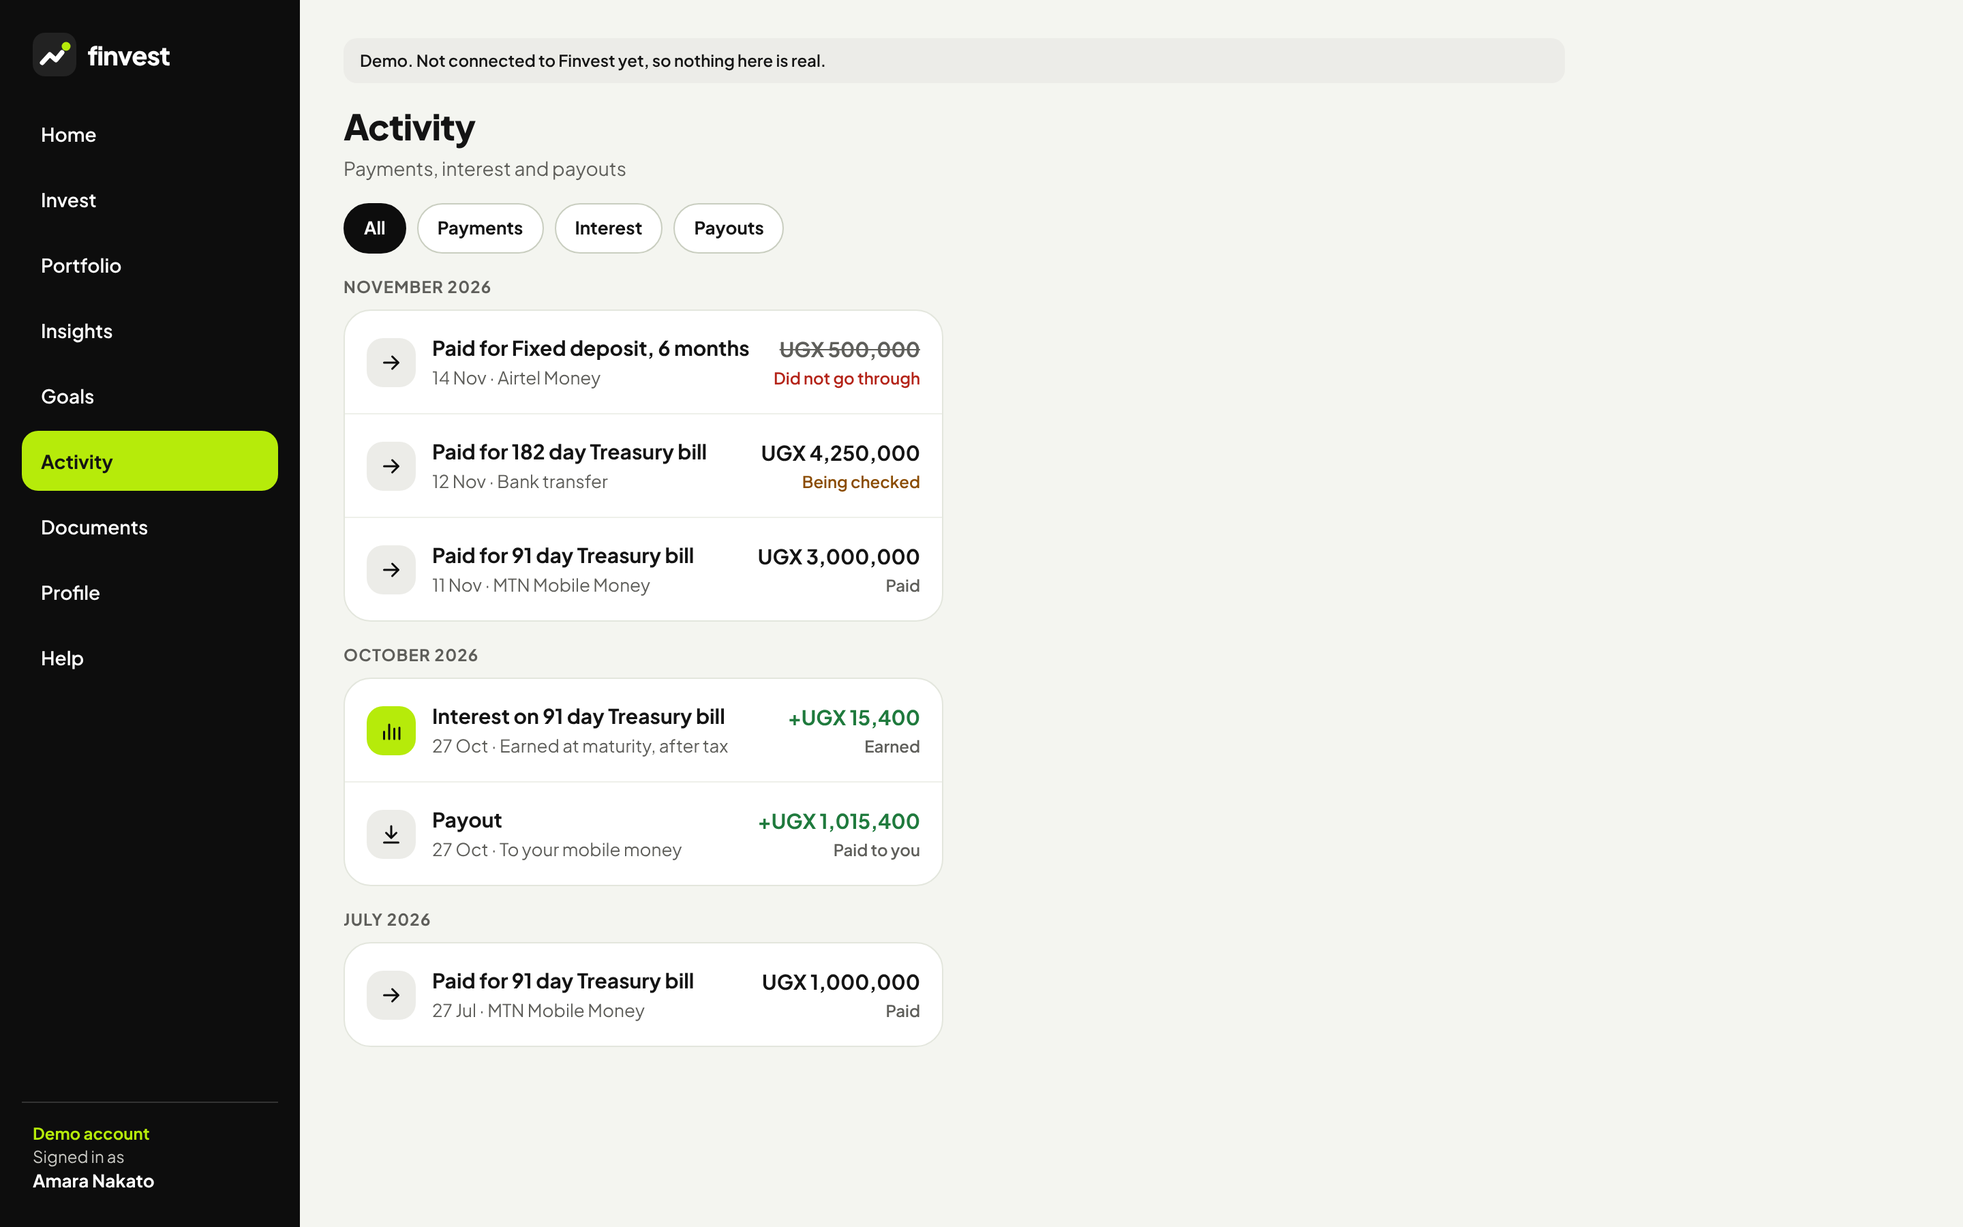
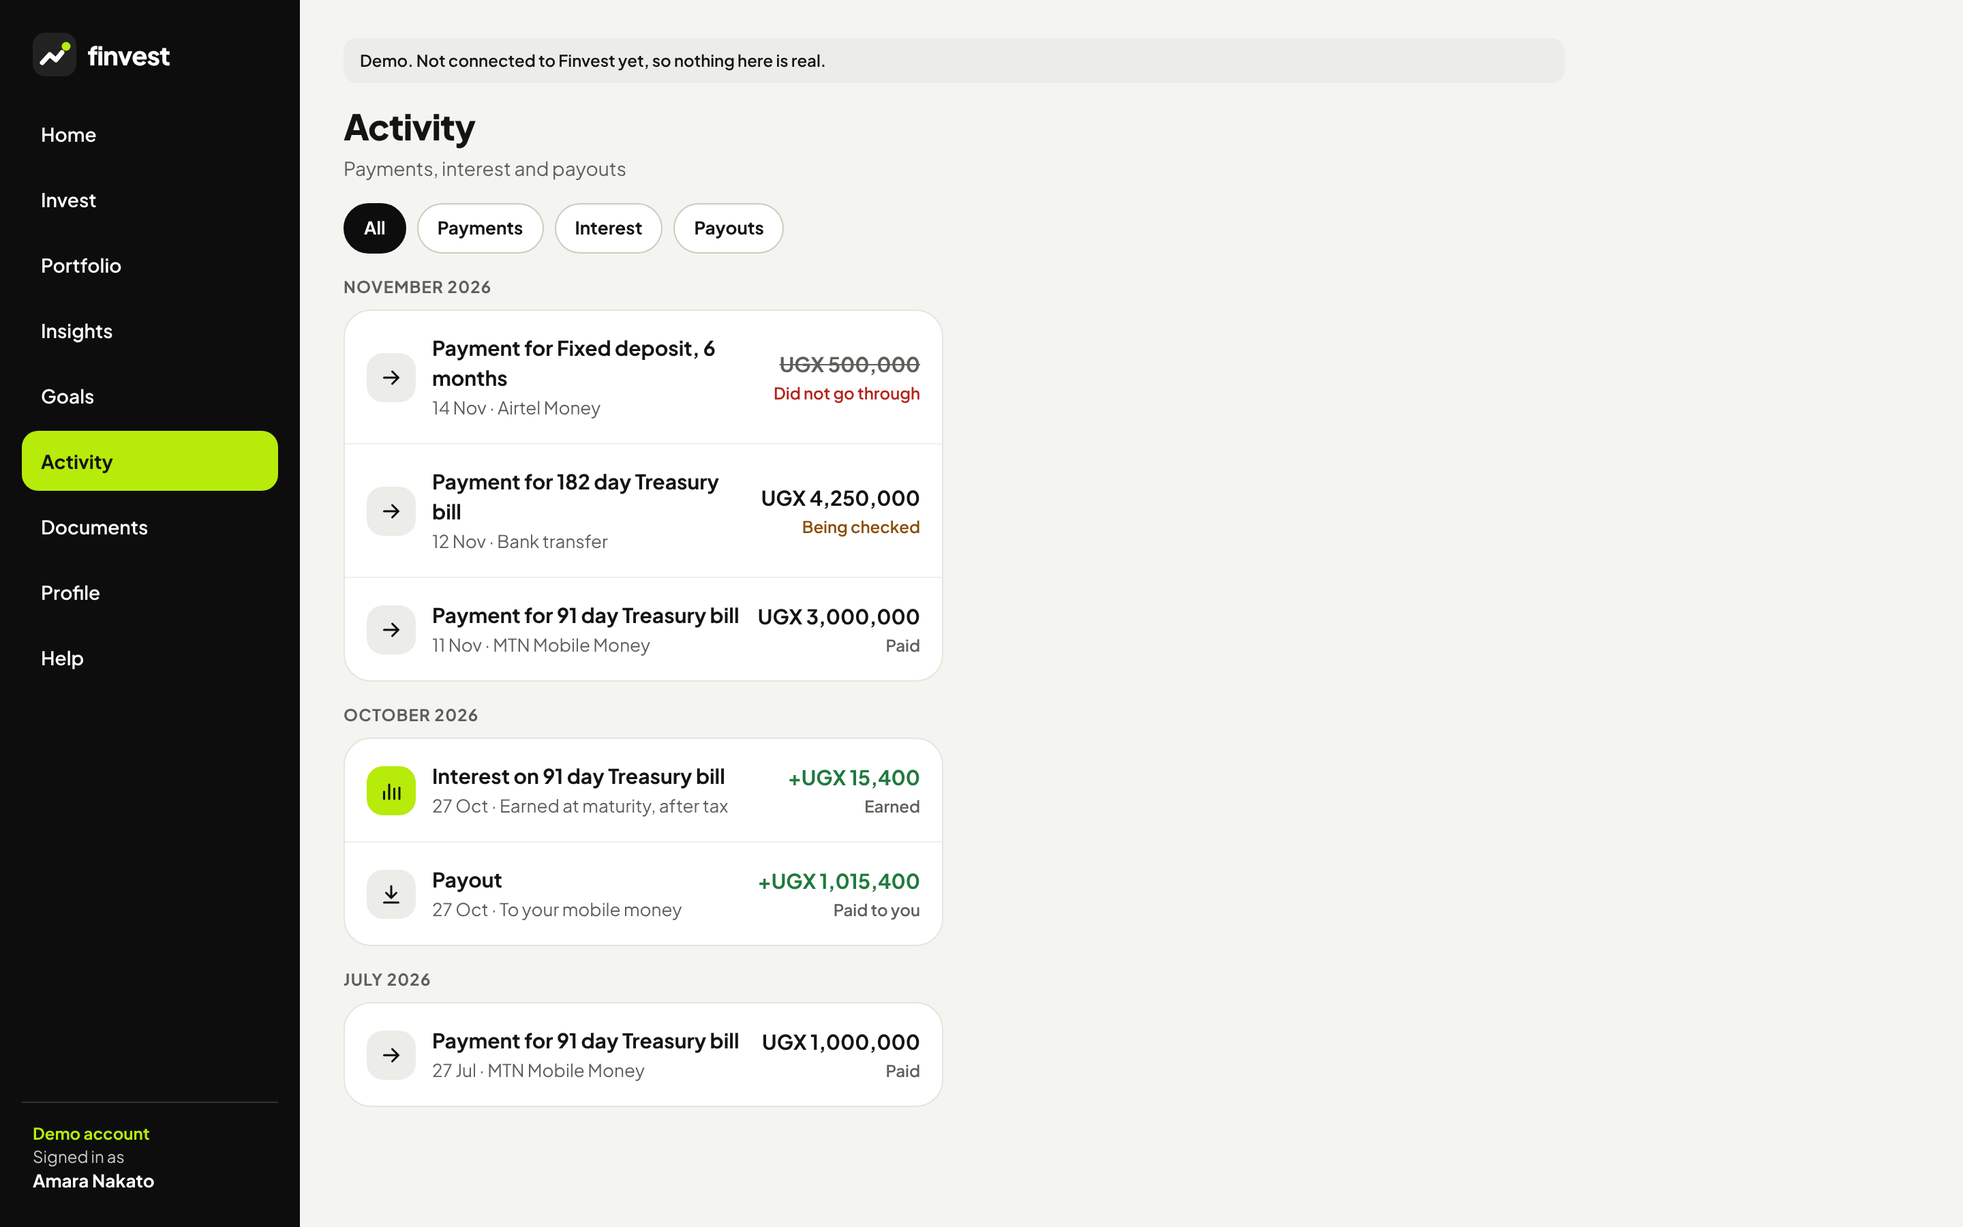
Say where a cut Activity list starts, and fix two reviewer notes
A payment row is titled "Payment for …", which is true while it is
being checked or after it failed. A client with more payments than the
four pages the app reads used to see older interest and payouts beside
missing older payments; the list now stops at the oldest payment read
and says at its foot where it starts. A signed-in client who opens a
spent email link again, as "Try again" does when the first answer was
lost, is told the address is proved when the session says it is.

Changed region(s): [[0.1875, 0.28, 0.4688, 0.7467], [0.1875, 0.7467, 0.4688, 0.8711], [0.375, 0.56, 0.4688, 0.7467]]

diff --git a/apps/client/src/activity/__tests__/apiActivityClient.test.ts b/apps/client/src/activity/__tests__/apiActivityClient.test.ts
@@ -46,9 +46,52 @@ describe("Activity from the API", () => {
               : null;
       return new Response(JSON.stringify(body), { status: body === null ? 404 : 200 });
     });
-    const items = await createApiActivityClient().list();
+    const { items, since } = await createApiActivityClient().list();
     expect(items.map((item) => item.amount.minor)).toEqual([3000, 2000, 1000]);
+    expect(since).toBeNull();
     expect(seen).toEqual(["/client/payments", `/client/payments?before=${id(2)}`, "/client/investments", "/client/payouts"]);
+  });
+
+  it("stops after four pages and keeps only what is newer than the oldest payment read", async () => {
+    const seen: string[] = [];
+    setFetch(async (url) => {
+      const path = String(url).replace(API_URL, "");
+      seen.push(path);
+      const page = seen.filter((p) => p.startsWith("/client/payments")).length;
+      const body = path.startsWith("/client/payments")
+        ? { items: [payment(10 - page * 2), payment(9 - page * 2)].map((item, i) => ({ ...item, id: id(page * 2 + i) })), next_before: id(page * 2 + 1) }
+        : path === "/client/payouts"
+          ? [
+              { id: id(70), amount: { minor: 5, currency: "UGX" }, kind: "mobile_money", status: "paid", business_date: "2026-11-01", destination_id: id(80), created_at: "2026-11-01T09:00:00Z" },
+              { id: id(71), amount: { minor: 7, currency: "UGX" }, kind: "mobile_money", status: "paid", business_date: "2026-11-01", destination_id: id(80), created_at: "2026-11-06T09:00:00Z" },
+            ]
+          : [];
+      return new Response(JSON.stringify(body), { status: 200 });
+    });
+    const { items, since } = await createApiActivityClient().list();
+    expect(seen.filter((p) => p.startsWith("/client/payments"))).toHaveLength(4);
+    // Pages hold days 8 and 7, 6 and 5, 4 and 3, 2 and 1: the oldest read is day 1.
+    expect(since).toBe("2026-11-01T08:00:00Z");
+    expect(items.filter((item) => item.kind === "payout").map((item) => item.amount.minor)).toEqual([7, 5]);
+  });
+
+  it("drops older rows of every kind when the payments are cut short", async () => {
+    let calls = 0;
+    setFetch(async (url) => {
+      const path = String(url).replace(API_URL, "");
+      if (path.startsWith("/client/payments")) {
+        calls += 1;
+        return new Response(JSON.stringify({ items: [payment(5)].map((item) => ({ ...item, id: id(calls) })), next_before: id(calls) }), { status: 200 });
+      }
+      const body =
+        path === "/client/payouts"
+          ? [{ id: id(70), amount: { minor: 5, currency: "UGX" }, kind: "mobile_money", status: "paid", business_date: "2026-11-01", destination_id: id(80), created_at: "2026-11-02T09:00:00Z" }]
+          : [];
+      return new Response(JSON.stringify(body), { status: 200 });
+    });
+    const { items, since } = await createApiActivityClient().list();
+    expect(since).toBe("2026-11-05T08:00:00Z");
+    expect(items.some((item) => item.kind === "payout")).toBe(false);
   });
 
   it("fails as a whole when any part cannot be read", async () => {

diff --git a/apps/client/src/activity/__tests__/build.test.ts b/apps/client/src/activity/__tests__/build.test.ts
@@ -1,4 +1,5 @@
-import { buildActivity, byMonth, InvestmentRow, monthHeading, PaymentRow, PayoutRow, shortDay } from "../build";
+import { buildActivity, byMonth, from, InvestmentRow, longDay, monthHeading, PaymentRow, PayoutRow, shortDay } from "../build";
+import { ActivityItem } from "../types";
 
 const ugx = (minor: number) => ({ currency: "UGX" as const, minor });
 
@@ -35,9 +36,9 @@ const payout = (over: Partial<PayoutRow> = {}): PayoutRow => ({
 describe("the Activity list", () => {
   it("names the investment a payment was for, and falls back when it is not known", () => {
     const [known] = buildActivity([payment()], [investment()], []);
-    expect(known).toMatchObject({ kind: "payment", title: "Paid for 91 day Treasury bill", detail: "MTN Mobile Money", direction: "out", status: "done", statusLabel: "Paid", investmentId: "inv-1" });
+    expect(known).toMatchObject({ kind: "payment", title: "Payment for 91 day Treasury bill", detail: "MTN Mobile Money", direction: "out", status: "done", statusLabel: "Paid", investmentId: "inv-1" });
     const [unknown] = buildActivity([payment({ investment_id: "other" })], [], []);
-    expect(unknown?.title).toBe("Paid for an investment");
+    expect(unknown?.title).toBe("Payment for an investment");
   });
 
   it("dates a payment by when it was confirmed, else when it started", () => {
@@ -90,5 +91,18 @@ describe("the Activity list", () => {
       "November 2026",
       "October 2026",
     ]);
+  });
+});
+
+describe("a list cut short", () => {
+  it("keeps every kind of row from the start time on and nothing older", () => {
+    const at = (key: string, iso: string) => ({ key, at: iso }) as ActivityItem;
+    const items = [at("a", "2026-11-03T00:00:00Z"), at("b", "2026-11-02T00:00:00Z"), at("c", "2026-11-01T00:00:00Z")];
+    expect(from(items, "2026-11-02T00:00:00Z").map((item) => item.key)).toEqual(["a", "b"]);
+    expect(from(items, null)).toBe(items);
+  });
+
+  it("names the day it starts in full, Kampala time", () => {
+    expect(longDay("2026-10-31T22:00:00Z")).toBe("1 November 2026");
   });
 });

diff --git a/apps/client/src/app/(app)/activity.tsx b/apps/client/src/app/(app)/activity.tsx
@@ -2,7 +2,7 @@ import { useCallback, useState } from "react";
 import { Pressable, StyleSheet, View } from "react-native";
 import { useFocusEffect, useRouter } from "expo-router";
 
-import { byMonth, shortDay } from "@/activity/build";
+import { byMonth, longDay, shortDay } from "@/activity/build";
 import { useActivity } from "@/activity/ActivityProvider";
 import { ActivityItem, ActivityKind } from "@/activity/types";
 import { AppPage } from "@/components/AppPage";
@@ -14,7 +14,7 @@ import { formatMoney } from "@/payments/format";
 import { Loading } from "@/payments/Parts";
 import { colors, COLUMN_WIDTH, fontSizes, radii } from "@/theme";
 
-type State = { status: "loading" } | { status: "error" } | { status: "ready"; items: ActivityItem[] };
+type State = { status: "loading" } | { status: "error" } | { status: "ready"; items: ActivityItem[]; since: string | null };
 
 type Filter = "all" | ActivityKind;
 
@@ -46,7 +46,7 @@ export default function Activity() {
     useCallback(() => {
       let live = true;
       client.list().then(
-        (items) => live && setState({ status: "ready", items }),
+        ({ items, since }) => live && setState({ status: "ready", items, since }),
         () => live && setState({ status: "error" }),
       );
       return () => {
@@ -125,6 +125,11 @@ export default function Activity() {
                 </View>
               ))
             )}
+            {state.since ? (
+              <Txt size={fontSizes.sm} color={colors.muted} testID="activity-since">
+                {`This list goes back to ${longDay(state.since)}. For anything older, ask for a statement in Documents.`}
+              </Txt>
+            ) : null}
           </>
         ) : null}
       </View>

diff --git a/apps/client/src/activity/stubActivityClient.ts b/apps/client/src/activity/stubActivityClient.ts
@@ -1,4 +1,4 @@
-import { buildActivity, InvestmentRow, PaymentRow, PayoutRow } from "./build";
+import { buildActivity, from, InvestmentRow, PaymentRow, PayoutRow } from "./build";
 import { ActivityClient, ActivityError } from "./types";
 
 /**
@@ -7,10 +7,12 @@ import { ActivityClient, ActivityError } from "./types";
  *
  * The two demo accounts have a few weeks of history. An account made by
  * signing up has none, which shows the empty state. A number ending in 99
- * cannot reach the service.
+ * cannot reach the service. The second demo account stands for a client with
+ * more payments than the app reads, so its list starts 60 days back.
  */
 
 const SEEDED = new Set(["+256772123456", "+256701000200"]);
+const CUT_SHORT = "+256701000200";
 const DAY_MS = 24 * 60 * 60 * 1000;
 
 function ago(now: number, days: number, hours = 0): string {
@@ -49,8 +51,11 @@ export function createStubActivityClient(
     async list() {
       if (delayMs > 0) await new Promise((resolve) => setTimeout(resolve, delayMs));
       if (phone?.endsWith("99")) throw new ActivityError();
-      if (!phone || !SEEDED.has(phone)) return [];
-      return buildActivity(...history(now()));
+      if (!phone || !SEEDED.has(phone)) return { items: [], since: null };
+      const items = buildActivity(...history(now()));
+      if (phone !== CUT_SHORT) return { items, since: null };
+      const since = ago(now(), 60);
+      return { items: from(items, since), since };
     },
   };
 }

diff --git a/apps/client/src/activity/build.ts b/apps/client/src/activity/build.ts
@@ -58,7 +58,7 @@ export function buildActivity(
       key: `payment:${payment.id}`,
       kind: "payment",
       at: payment.confirmed_at ?? payment.created_at,
-      title: name ? `Paid for ${name}` : "Paid for an investment",
+      title: name ? `Payment for ${name}` : "Payment for an investment",
       detail: METHOD[payment.method],
       amount: payment.amount,
       direction: "out",
@@ -116,6 +116,22 @@ const KAMPALA_OFFSET_MS = 3 * 60 * 60 * 1000;
 export function monthHeading(iso: string): string {
   const at = new Date(Date.parse(iso) + KAMPALA_OFFSET_MS);
   return `${MONTHS[at.getUTCMonth()]} ${at.getUTCFullYear()}`;
+}
+
+/** "13 November 2026", the Kampala day in full. */
+export function longDay(iso: string): string {
+  const at = new Date(Date.parse(iso) + KAMPALA_OFFSET_MS);
+  return `${at.getUTCDate()} ${MONTHS[at.getUTCMonth()]} ${at.getUTCFullYear()}`;
+}
+
+/**
+ * Only the rows from `since` on, so a list cut short is still whole for the
+ * time it covers: no older interest or payout beside missing older payments.
+ */
+export function from(items: ActivityItem[], since: string | null): ActivityItem[] {
+  if (!since) return items;
+  const start = Date.parse(since);
+  return items.filter((item) => Date.parse(item.at) >= start);
 }
 
 /** "13 Nov", the Kampala day a row falls in. */

diff --git a/apps/client/src/activity/apiActivityClient.ts b/apps/client/src/activity/apiActivityClient.ts
@@ -2,10 +2,10 @@ import type { PaymentPage } from "@finvest/api-client/client";
 
 import { api } from "@/api/http";
 
-import { buildActivity, PaymentRow } from "./build";
+import { buildActivity, from, PaymentRow } from "./build";
 import { ActivityClient, ActivityError } from "./types";
 
-/** Pages of payments read at most. A client with more sees the newest of them. */
+/** Pages of payments read at most. A client with more sees everything since the oldest one read. */
 const MAX_PAYMENT_PAGES = 4;
 
 /** The Activity list from `GET /client/payments`, `/client/investments` and `/client/payouts`. */
@@ -27,7 +27,9 @@ export function createApiActivityClient(): ActivityClient {
           api("GET /client/investments", {}),
           api("GET /client/payouts", {}),
         ]);
-        return buildActivity(payments, investments, payouts);
+        // Payments come newest first, so the last one read is where a cut list starts.
+        const since = before ? (payments[payments.length - 1]?.created_at ?? null) : null;
+        return { items: from(buildActivity(payments, investments, payouts), since), since };
       } catch {
         throw new ActivityError();
       }

diff --git a/apps/client/src/app/verify-email.tsx b/apps/client/src/app/verify-email.tsx
@@ -48,13 +48,20 @@ export default function VerifyEmail() {
         if (fresh) setSession(fresh);
         if (live) setState({ status: "proved" });
       })
-      .catch((caught: unknown) => {
+      .catch(async (caught: unknown) => {
+        const expired = caught instanceof AuthError && caught.code === "expired";
+        // A first try may have gone through with its answer lost, which spends the
+        // link. A signed-in client then asks the session before saying it failed.
+        if (expired && session) {
+          const fresh = await client.restoreSession().catch(() => null);
+          if (fresh?.emailVerified) {
+            setSession(fresh);
+            if (live) setState({ status: "proved" });
+            return;
+          }
+        }
         if (!live) return;
-        setState(
-          caught instanceof AuthError && caught.code === "expired"
-            ? { status: "expired" }
-            : { status: "failed", message: describeAuthError(caught) },
-        );
+        setState(expired ? { status: "expired" } : { status: "failed", message: describeAuthError(caught) });
       });
     return () => {
       live = false;

diff --git a/apps/client/src/__tests__/emailProof.test.tsx b/apps/client/src/__tests__/emailProof.test.tsx
@@ -85,6 +85,22 @@ describe("Proving an email address", () => {
     await screen.findByText("This link no longer works");
   });
 
+  it("says proved when a spent link is opened again by a client whose address went through", async () => {
+    await logInAndOpenProfile("772123456");
+    await fireEvent.press(screen.getByTestId("use-passkey"));
+    await fireEvent.press(await screen.findByLabelText("Profile"));
+    await fireEvent.press(await screen.findByTestId("send-email-proof"));
+    await screen.findByText(/We emailed a link/);
+    const token = mockMail.tokens[0]!;
+    await openLink(token);
+    await screen.findByText("Your email address is proved");
+
+    // The same link again, as "Try again" sends it when the first answer was lost.
+    await openLink(token);
+    await screen.findByText("Your email address is proved");
+    expect(screen.queryByText("This link no longer works")).toBeNull();
+  });
+
   it("says nothing needs proving for an address that already is", async () => {
     await logInAndOpenProfile("701000200");
     await fireEvent.press(screen.getByTestId("use-authenticator"));

diff --git a/apps/client/src/activity/types.ts b/apps/client/src/activity/types.ts
@@ -17,7 +17,7 @@ export type ActivityItem = {
   kind: ActivityKind;
   /** When it happened, ISO 8601. Newest first is by this. */
   at: string;
-  /** "Paid for 91 day Treasury bill". */
+  /** "Payment for 91 day Treasury bill", true whether it went through or not. */
   title: string;
   /** "MTN Mobile Money", "Bank transfer", "To your mobile money". */
   detail: string;
@@ -38,7 +38,18 @@ export class ActivityError extends Error {
   }
 }
 
+export type ActivityList = {
+  /** Newest first. */
+  items: ActivityItem[];
+  /**
+   * Null when the list holds everything. Otherwise the client has more
+   * payments than the app reads, and the list holds every kind of row from
+   * this time on and nothing older, so the screen can say where it starts.
+   */
+  since: string | null;
+};
+
 export interface ActivityClient {
-  /** Everything, newest first. Fails with ActivityError when any part cannot be read. */
-  list(): Promise<ActivityItem[]>;
+  /** Fails with ActivityError when any part cannot be read. */
+  list(): Promise<ActivityList>;
 }

diff --git a/apps/client/src/__tests__/activityFlow.test.tsx b/apps/client/src/__tests__/activityFlow.test.tsx
@@ -49,7 +49,7 @@ describe("Activity", () => {
     await screen.findByText("Welcome, Amara");
     await fireEvent.press(screen.getByLabelText("Activity"));
 
-    expect(await screen.findByText("Paid for 182 day Treasury bill")).toBeTruthy();
+    expect(await screen.findByText("Payment for 182 day Treasury bill")).toBeTruthy();
     expect(screen.getByText("Being checked")).toBeTruthy();
     expect(screen.getByText("Did not go through")).toBeTruthy();
     expect(screen.getByText("Interest on 91 day Treasury bill")).toBeTruthy();
@@ -61,7 +61,8 @@ describe("Activity", () => {
     expect(screen.getByText("Interest on 91 day Treasury bill")).toBeTruthy();
     await fireEvent.press(screen.getByTestId("filter-payout"));
     expect(screen.getByText("Paid to you")).toBeTruthy();
-    expect(screen.queryByText(/^Paid for/)).toBeNull();
+    expect(screen.queryByText(/^Payment for/)).toBeNull();
+    expect(screen.queryByTestId("activity-since")).toBeNull();
   });
 
   it("says nothing has happened yet for a new client", async () => {

diff --git a/apps/client/README.md b/apps/client/README.md
@@ -85,7 +85,7 @@ Not built: naming devices or passkeys, and recovery codes. Offering the passkey 
 
 **Push on this phone** (`src/push/`). After each sign-in the app sends its Expo push token to `PUT /client/push-devices` if the client already allowed notifications; it never shows the phone's prompt on its own. Notification settings has a "Push on this phone" card, in the phone app only, that shows the prompt when the client presses "Turn on", and sends a client who said no to the phone's settings. Sign-out gives the token up with `POST /client/push-devices/remove` while the session still works. The token travels only in request bodies and is kept in memory only. The browser and the demo never register. Before release: the build needs its EAS project ID (`extra.eas.projectId`, set by `eas init`), without which there is no push token and the card stays hidden; and tapping a push does not open its screen yet.
 
-**Activity** (`src/app/(app)/activity.tsx`, `src/activity/`) lists payments, interest and payouts in one list, newest first, under Kampala month headings, with All, Payments, Interest and Payouts filters. It is built in the app from three reads: `GET /client/payments` (up to four pages of 50), `GET /client/investments` (product names, and interest once an investment has matured, dated on its maturity day) and `GET /client/payouts`. Each row says where it stands ("Being checked", "Did not go through", "Paid to you"), and a payment or interest row opens its investment. If any read fails the whole list says so and offers to try again, rather than show a partial history. Amounts are the after-tax figures the API gives, never a rate.
+**Activity** (`src/app/(app)/activity.tsx`, `src/activity/`) lists payments, interest and payouts in one list, newest first, under Kampala month headings, with All, Payments, Interest and Payouts filters. It is built in the app from three reads: `GET /client/payments` (up to four pages of 50), `GET /client/investments` (product names, and interest once an investment has matured, dated on its maturity day) and `GET /client/payouts`. Each row says where it stands ("Being checked", "Did not go through", "Paid to you"), and a payment or interest row opens its investment. If any read fails the whole list says so and offers to try again, rather than show a partial history. A client with more payments than those four pages sees every kind of row back to the oldest payment read and nothing older, with a line at the foot saying where the list starts and pointing to statements for the rest. Amounts are the after-tax figures the API gives, never a rate.
 
 What the stub does not cover yet, each with a screen on the design canvas: the app PIN, the ID check, log in by email, and company or group accounts. Links to those lead to a short "not ready yet" screen.
 
